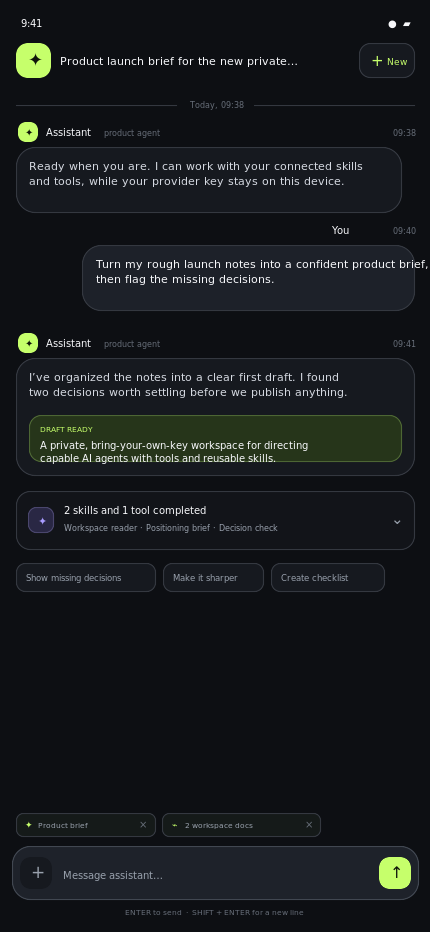
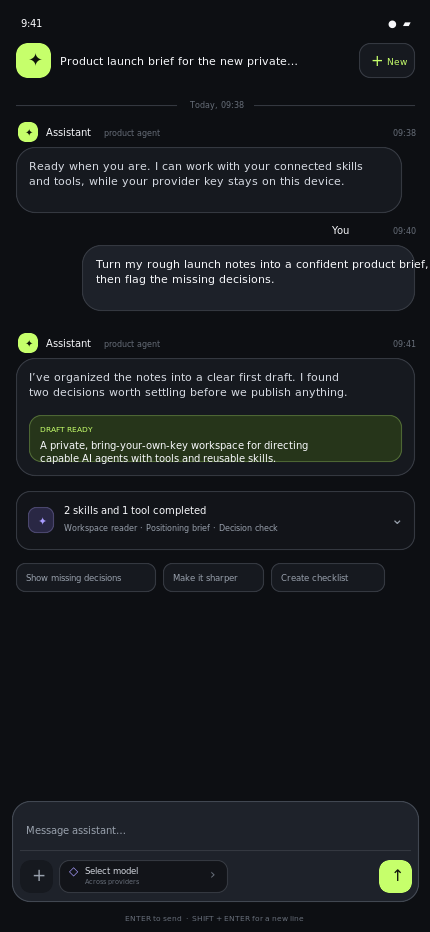
design: add two-stage chat composer

diff --git a/chat-page.html b/chat-page.html
@@ -185,26 +185,33 @@
     .chip { flex: 0 0 auto; padding: 8px 9px; border: 1px solid var(--line); border-radius: 9px; background: var(--surface); color: var(--muted); font-size: 8.5px; font-weight: 500; transition: color .15s ease, border-color .15s ease, background .15s ease; }
     .chip:hover, .chip:focus-visible { border-color: rgba(198,255,107,.42); background: var(--accent-wash); color: var(--accent); outline: 0; }
 
-    /* Composer. No bottom navigation: this is the only fixed action area. */
+    /* Two-stage composer: write first, then choose the capabilities that shape the request. */
     .composer-area {
       position: absolute;
       right: 0;
       bottom: 0;
       left: 0;
-      padding: 22px 12px calc(12px + env(safe-area-inset-bottom));
+      padding: 26px 12px calc(12px + env(safe-area-inset-bottom));
       background: linear-gradient(180deg, rgba(13,15,19,0), var(--bg) 29%);
     }
-    .context-row { display: flex; gap: 6px; margin: 0 4px 7px; overflow-x: auto; scrollbar-width: none; }
-    .context-row::-webkit-scrollbar { display: none; }
-    .context-chip { display: flex; align-items: center; gap: 5px; flex: 0 0 auto; padding: 5px 7px; border: 1px solid var(--line); border-radius: 7px; background: rgba(22,25,31,.9); color: var(--muted); font-size: 7.5px; }
-    .context-chip b { color: var(--accent); font-weight: 500; }.context-chip .close { color: var(--quiet); font-size: 10px; line-height: 7px; }
-    .composer { display: grid; grid-template-columns: 31px minmax(0, 1fr) 31px; align-items: end; gap: 7px; padding: 7px; border: 1px solid rgba(255,255,255,.12); border-radius: 18px; background: rgba(30,34,42,.96); box-shadow: 0 14px 34px rgba(0,0,0,.32); backdrop-filter: blur(14px); }
-    .composer-button { display: grid; width: 31px; height: 31px; place-items: center; border: 0; border-radius: 10px; background: var(--surface); color: var(--muted); }
-    .composer-button svg { width: 15px; height: 15px; stroke: currentColor; stroke-width: 1.8; fill: none; stroke-linecap: round; stroke-linejoin: round; }
-    #prompt { display: block; width: 100%; max-height: 92px; padding: 7px 0; overflow-y: auto; resize: none; border: 0; outline: none; background: transparent; color: var(--text); font-size: 11px; line-height: 1.45; }
+    .composer { overflow: hidden; border: 1px solid rgba(255,255,255,.12); border-radius: 18px; background: rgba(30,34,42,.96); box-shadow: 0 14px 34px rgba(0,0,0,.32); backdrop-filter: blur(14px); }
+    .input-stage { min-height: 55px; padding: 9px 12px 7px; }
+    #prompt { display: block; width: 100%; max-height: 84px; padding: 0; overflow-y: auto; resize: none; border: 0; outline: none; background: transparent; color: var(--text); font-size: 11px; line-height: 1.48; }
     #prompt::placeholder { color: var(--muted); opacity: 1; }
+    .composer-rule { height: 1px; margin: 0 8px; background: var(--line); }
+    .button-stage { display: flex; align-items: center; justify-content: space-between; gap: 8px; min-height: 47px; padding: 7px; }
+    .composer-tools { display: flex; min-width: 0; gap: 6px; overflow-x: auto; scrollbar-width: none; }.composer-tools::-webkit-scrollbar { display: none; }
+    .composer-button { display: grid; width: 32px; height: 32px; place-items: center; flex: 0 0 auto; border: 1px solid transparent; border-radius: 10px; background: var(--surface); color: var(--muted); }
+    .composer-button:hover, .composer-button:focus-visible { border-color: var(--line); color: var(--text); outline: 0; }
+    .composer-button svg { width: 15px; height: 15px; stroke: currentColor; stroke-width: 1.8; fill: none; stroke-linecap: round; stroke-linejoin: round; }
+    .model-picker-button { display: grid; grid-template-columns: 15px minmax(0, 1fr) 11px; align-items: center; width: min(168px, 46vw); height: 32px; gap: 5px; padding: 0 8px; flex: 0 0 auto; border: 1px solid var(--line); border-radius: 10px; background: var(--surface-soft); color: var(--text-soft); text-align: left; }
+    .model-picker-button > svg { width: 15px; height: 15px; stroke: var(--violet); stroke-width: 1.8; fill: none; stroke-linecap: round; stroke-linejoin: round; }.model-picker-button .model-chevron { width: 11px; height: 11px; stroke: var(--quiet); }
+    .model-button-copy { min-width: 0; }.model-button-copy b, .model-button-copy span { display: block; overflow: hidden; text-overflow: ellipsis; white-space: nowrap; }.model-button-copy b { font-size: 8.5px; font-weight: 800; letter-spacing: -.018em; }.model-button-copy span { margin-top: 1px; color: var(--quiet); font-family: var(--mono); font-size: 6.5px; }.model-picker-button.has-model { border-color: rgba(198,255,107,.28); background: var(--accent-wash); }.model-picker-button.has-model > svg { stroke: var(--accent); }.model-picker-button.has-model .model-button-copy b { color: var(--accent); }
     .send { background: var(--accent); color: var(--accent-ink); }.send:disabled { background: var(--surface); color: var(--quiet); cursor: default; }.send svg { stroke-width: 2.2; }
     .composer-hint { margin: 7px 3px 0; color: var(--quiet); font-size: 7.5px; text-align: center; }.composer-hint strong { color: var(--muted); font-weight: 500; }
+
+    /* Model selection is an expandable capability surface, ready for more request tools later. */
+    .model-picker-layer { position: fixed; inset: 0; z-index: 20; display: grid; align-items: end; justify-items: center; }.model-picker-layer[hidden] { display: none; }.model-picker-scrim { position: absolute; inset: 0; padding: 0; border: 0; background: rgba(4,5,7,.62); backdrop-filter: blur(13px) saturate(.72); opacity: 0; transition: opacity .22s ease; }.model-picker-sheet { position: relative; width: min(100%,470px); max-height: min(77dvh,670px); padding: 12px 16px calc(18px + env(safe-area-inset-bottom)); transform: translateY(105%); overflow: auto; border: 1px solid rgba(255,255,255,.12); border-bottom: 0; border-radius: 24px 24px 0 0; background: linear-gradient(135deg,rgba(169,156,255,.09),transparent 38%),var(--surface); box-shadow: 0 -18px 60px rgba(0,0,0,.5); transition: transform .28s cubic-bezier(.2,.8,.2,1); }.model-picker-layer.is-open .model-picker-scrim { opacity: 1; }.model-picker-layer.is-open .model-picker-sheet { transform: translateY(0); }.picker-handle { width: 34px; height: 4px; margin: 0 auto 15px; border-radius: 99px; background: #454b55; }.picker-head { display: flex; align-items: center; justify-content: space-between; gap: 12px; margin: 0 1px 14px; }.picker-head h2 { margin: 0; font-size: 16px; font-weight: 800; letter-spacing: -.045em; }.picker-head p { margin: 3px 0 0; color: var(--muted); font-family: var(--mono); font-size: 8px; }.picker-close { display: grid; width: 30px; height: 30px; place-items: center; border: 1px solid var(--line); border-radius: 9px; background: var(--surface-soft); color: var(--muted); }.picker-close svg { width: 14px; height: 14px; fill: none; stroke: currentColor; stroke-linecap: round; stroke-linejoin: round; stroke-width: 1.8; }.picker-group + .picker-group { margin-top: 14px; }.picker-group h3 { margin: 0 3px 7px; color: var(--quiet); font-family: var(--mono); font-size: 8px; font-weight: 500; letter-spacing: .075em; text-transform: uppercase; }.picker-model { display: grid; grid-template-columns: 29px minmax(0,1fr) 24px; align-items: center; gap: 9px; width: 100%; min-height: 51px; padding: 8px 9px; border: 1px solid var(--line); border-radius: 12px; background: var(--surface-soft); color: var(--text); text-align: left; }.picker-model + .picker-model { margin-top: 6px; }.picker-model:hover { border-color: rgba(198,255,107,.35); background: var(--surface-raised); }.picker-model[aria-pressed="true"] { border-color: rgba(198,255,107,.42); background: var(--accent-wash); }.picker-orb { display: grid; width: 29px; height: 29px; place-items: center; border-radius: 9px; background: var(--violet-wash); color: var(--violet); font-family: var(--mono); font-size: 8px; font-weight: 500; }.picker-model[aria-pressed="true"] .picker-orb { background: var(--accent); color: var(--accent-ink); }.picker-copy { min-width: 0; }.picker-copy b, .picker-copy span { display: block; overflow: hidden; text-overflow: ellipsis; white-space: nowrap; }.picker-copy b { font-family: var(--mono); font-size: 8.5px; font-weight: 500; }.picker-copy span { margin-top: 3px; color: var(--muted); font-size: 7.5px; }.picker-check { display: grid; width: 22px; height: 22px; place-items: center; border: 1px solid var(--line); border-radius: 7px; color: var(--quiet); font-size: 12px; }.picker-model[aria-pressed="true"] .picker-check { border-color: transparent; background: var(--accent); color: var(--accent-ink); }
 
     .toast { position: absolute; top: 92px; left: 50%; z-index: 3; width: max-content; max-width: calc(100% - 36px); padding: 8px 10px; transform: translate(-50%, -12px); border: 1px solid rgba(198,255,107,.22); border-radius: 9px; background: #1d2520; color: var(--accent); box-shadow: 0 10px 24px rgba(0,0,0,.28); font-family: var(--mono); font-size: 8px; opacity: 0; pointer-events: none; transition: opacity .2s ease, transform .2s ease; }.toast.show { transform: translate(-50%, 0); opacity: 1; }
     .empty-state { display: grid; min-height: 400px; place-content: center; padding: 20px; text-align: center; }.empty-state .brand-mark { display: grid; width: 44px; height: 44px; margin: 0 auto; place-items: center; border-radius: 15px; background: var(--accent); color: var(--accent-ink); box-shadow: 0 8px 18px var(--accent-wash); font-size: 20px; }.empty-state h2 { margin: 14px 0 6px; font-size: 20px; letter-spacing: -.05em; }.empty-state p { max-width: 270px; margin: 0; color: var(--muted); font-size: 11px; line-height: 1.55; }.empty-state .quick-actions { justify-content: center; margin-top: 18px; }
@@ -295,14 +302,35 @@
     </section>
 
     <form class="composer-area" id="composerForm">
-      <div class="context-row" aria-label="Active chat context"><span class="context-chip"><b>✦</b> Product brief <span class="close">×</span></span><span class="context-chip"><b>⌁</b> 2 workspace docs <span class="close">×</span></span></div>
       <div class="composer">
-        <button class="composer-button" type="button" aria-label="Attach context or tools"><svg viewBox="0 0 24 24"><path d="M12 5v14M5 12h14"/></svg></button>
-        <textarea id="prompt" rows="1" aria-label="Message assistant" placeholder="Message assistant…"></textarea>
-        <button class="composer-button send" id="sendButton" type="submit" aria-label="Send message" disabled><svg viewBox="0 0 24 24"><path d="m5 12 14-7-4 14-3-5-5-2Z"/><path d="m12 12 3-3"/></svg></button>
+        <div class="input-stage"><textarea id="prompt" rows="1" aria-label="Message assistant" placeholder="Message assistant…"></textarea></div>
+        <div class="composer-rule" aria-hidden="true"></div>
+        <div class="button-stage" aria-label="Message capabilities">
+          <div class="composer-tools">
+            <button class="composer-button" id="attachButton" type="button" aria-label="Attach a file or add context"><svg viewBox="0 0 24 24" aria-hidden="true"><path d="m21.4 11.6-8.8 8.8a6 6 0 0 1-8.5-8.5l8.8-8.8a4 4 0 0 1 5.7 5.7l-8.8 8.8a2 2 0 0 1-2.8-2.8l8.1-8.1"/></svg></button>
+            <button class="model-picker-button" id="modelPickerButton" type="button" aria-haspopup="dialog" aria-controls="modelPickerSheet" aria-expanded="false"><svg viewBox="0 0 24 24" aria-hidden="true"><path d="M12 3v18M3 12h18M5.6 5.6l12.8 12.8M18.4 5.6 5.6 18.4"/></svg><span class="model-button-copy"><b id="modelButtonLabel">Select model</b><span id="modelProviderLabel">Across providers</span></span><svg class="model-chevron" viewBox="0 0 24 24" aria-hidden="true"><path d="m9 18 6-6-6-6"/></svg></button>
+          </div>
+          <button class="composer-button send" id="sendButton" type="submit" aria-label="Send message" disabled><svg viewBox="0 0 24 24"><path d="M12 5v14m0-14-5 5m5-5 5 5"/></svg></button>
+        </div>
       </div>
       <p class="composer-hint"><strong>Enter</strong> to send · <strong>Shift + Enter</strong> for a new line</p>
     </form>
+
+    <div class="model-picker-layer" id="modelPickerLayer" hidden>
+      <button class="model-picker-scrim" id="modelPickerScrim" type="button" tabindex="-1" aria-label="Close model picker"></button>
+      <section class="model-picker-sheet" id="modelPickerSheet" role="dialog" aria-modal="true" aria-labelledby="modelPickerTitle">
+        <div class="picker-handle" aria-hidden="true"></div>
+        <header class="picker-head"><div><h2 id="modelPickerTitle">Choose model</h2><p>Available across your providers</p></div><button class="picker-close" id="modelPickerClose" type="button" aria-label="Close model picker"><svg viewBox="0 0 24 24" aria-hidden="true"><path d="m18 6-12 12M6 6l12 12"/></svg></button></header>
+        <section class="picker-group" aria-labelledby="personalModels"><h3 id="personalModels">Personal workspace</h3>
+          <button class="picker-model" type="button" data-provider="Personal workspace" data-model="gpt-4.1-mini" aria-pressed="false"><span class="picker-orb">G4</span><span class="picker-copy"><b>gpt-4.1-mini</b><span>Fast general-purpose model</span></span><span class="picker-check" aria-hidden="true">+</span></button>
+          <button class="picker-model" type="button" data-provider="Personal workspace" data-model="gpt-4.1" aria-pressed="false"><span class="picker-orb">G4</span><span class="picker-copy"><b>gpt-4.1</b><span>Advanced reasoning and coding</span></span><span class="picker-check" aria-hidden="true">+</span></button>
+        </section>
+        <section class="picker-group" aria-labelledby="researchModels"><h3 id="researchModels">Research route</h3>
+          <button class="picker-model" type="button" data-provider="Research route" data-model="gpt-4o-mini" aria-pressed="false"><span class="picker-orb">G4</span><span class="picker-copy"><b>gpt-4o-mini</b><span>Compact multimodal model</span></span><span class="picker-check" aria-hidden="true">+</span></button>
+          <button class="picker-model" type="button" data-provider="Research route" data-model="text-embedding-3-small" aria-pressed="false"><span class="picker-orb">EM</span><span class="picker-copy"><b>text-embedding-3-small</b><span>Embedding model</span></span><span class="picker-check" aria-hidden="true">+</span></button>
+        </section>
+      </section>
+    </div>
   </main>
 
   <script>
@@ -320,7 +348,15 @@
     const drawerScrim = document.getElementById('drawerScrim');
     const drawerClose = document.getElementById('drawerClose');
     const sessionName = document.getElementById('sessionName');
+    const attachButton = document.getElementById('attachButton');
+    const modelPickerButton = document.getElementById('modelPickerButton');
+    const modelPickerLayer = document.getElementById('modelPickerLayer');
+    const modelPickerScrim = document.getElementById('modelPickerScrim');
+    const modelPickerClose = document.getElementById('modelPickerClose');
+    const modelButtonLabel = document.getElementById('modelButtonLabel');
+    const modelProviderLabel = document.getElementById('modelProviderLabel');
     let toastTimer;
+    let modelPickerCloseTimer;
 
     function resizePrompt() {
       prompt.style.height = 'auto';
@@ -343,6 +379,19 @@
       else historyLauncher.focus();
     }
 
+    function setModelPicker(isOpen) {
+      clearTimeout(modelPickerCloseTimer);
+      modelPickerButton.setAttribute('aria-expanded', String(isOpen));
+      if (isOpen) {
+        modelPickerLayer.hidden = false;
+        requestAnimationFrame(() => modelPickerLayer.classList.add('is-open'));
+        setTimeout(() => modelPickerClose.focus(), 180);
+      } else {
+        modelPickerLayer.classList.remove('is-open');
+        modelPickerCloseTimer = setTimeout(() => { modelPickerLayer.hidden = true; modelPickerButton.focus(); }, 280);
+      }
+    }
+
     function appendMessage(text) {
       const safeText = document.createTextNode(text);
       const article = document.createElement('article');
@@ -361,8 +410,24 @@
     historyLauncher.addEventListener('click', () => setDrawer(true));
     drawerClose.addEventListener('click', () => setDrawer(false));
     drawerScrim.addEventListener('click', () => setDrawer(false));
+    attachButton.addEventListener('click', () => showToast('Attachment and context picker opens in the implementation phase'));
+    modelPickerButton.addEventListener('click', () => setModelPicker(true));
+    modelPickerClose.addEventListener('click', () => setModelPicker(false));
+    modelPickerScrim.addEventListener('click', () => setModelPicker(false));
+    document.querySelectorAll('.picker-model').forEach((option) => option.addEventListener('click', () => {
+      document.querySelectorAll('.picker-model').forEach((item) => { item.setAttribute('aria-pressed', 'false'); item.querySelector('.picker-check').textContent = '+'; });
+      option.setAttribute('aria-pressed', 'true');
+      option.querySelector('.picker-check').textContent = '✓';
+      modelButtonLabel.textContent = option.dataset.model;
+      modelProviderLabel.textContent = option.dataset.provider;
+      modelPickerButton.classList.add('has-model');
+      setModelPicker(false);
+      showToast(`${option.dataset.model} selected`);
+    }));
     document.addEventListener('keydown', (event) => {
-      if (event.key === 'Escape' && phone.classList.contains('drawer-open')) setDrawer(false);
+      if (event.key !== 'Escape') return;
+      if (!modelPickerLayer.hidden) setModelPicker(false);
+      else if (phone.classList.contains('drawer-open')) setDrawer(false);
     });
     document.querySelectorAll('.history-item').forEach((item) => item.addEventListener('click', () => {
       document.querySelectorAll('.history-item').forEach((entry) => entry.classList.remove('active'));

diff --git a/README.md b/README.md
@@ -4,9 +4,9 @@ Planning for a mobile-friendly web application with a JavaScript backend running
 
 - [Termux web application plan](docs/TERMUX_WEB_APP_PLAN.md)
 - [Mobile UI design exploration](design-exploration.html) — a self-contained, interactive HTML review with three palettes and three mobile-screen directions.
-- [Neural Ink chat-page design](chat-page.html) — the selected dark/precise mobile chat direction, without bottom navigation. Its left icon opens an accessible chat-history drawer; the top-centre session title truncates long names with an ellipsis.
+- [Neural Ink chat-page design](chat-page.html) — the selected dark/precise mobile chat direction, without bottom navigation. Its left icon opens an accessible chat-history drawer; the top-centre session title truncates long names with an ellipsis; its two-stage composer separates text entry from attach/model actions.
 - [Neural Ink settings-page design](settings-page.html) — the first dedicated settings screen. Its Providers button opens a focused in-page Providers section; Add provider opens a blurred modal with primary and unlimited backup-key inputs.
 - [Neural Ink models-page design](models-page.html) — the provider-level Models page with separate Selected models and Fetch models sections.
-- `design-previews/` — PNG previews for Neural Ink / Focus Chat, Iris Signal / Agent Run, Paper Circuit / Skills & Tools, the selected [Neural Ink chat page](design-previews/neural-ink-chat-page.png), its [chat-history drawer](design-previews/neural-ink-chat-history.png), [settings page](design-previews/neural-ink-settings-page.png), [Providers section](design-previews/neural-ink-providers-section.png), [Add provider modal](design-previews/neural-ink-add-provider-modal.png), [configured Providers](design-previews/neural-ink-providers-populated.png), and [Models after fetch](design-previews/neural-ink-models-page.png).
+- `design-previews/` — PNG previews for Neural Ink / Focus Chat, Iris Signal / Agent Run, Paper Circuit / Skills & Tools, the selected [Neural Ink chat page](design-previews/neural-ink-chat-page.png), its [chat-history drawer](design-previews/neural-ink-chat-history.png), [settings page](design-previews/neural-ink-settings-page.png), [Providers section](design-previews/neural-ink-providers-section.png), [Add provider modal](design-previews/neural-ink-add-provider-modal.png), [configured Providers](design-previews/neural-ink-providers-populated.png), [Models after fetch](design-previews/neural-ink-models-page.png), and the [chat model picker](design-previews/neural-ink-chat-model-picker.png).
 
 The product brief is the next required step before implementation. The plan lists the exact decisions needed and the proposed frontend, backend, security, database, and Termux approach.
